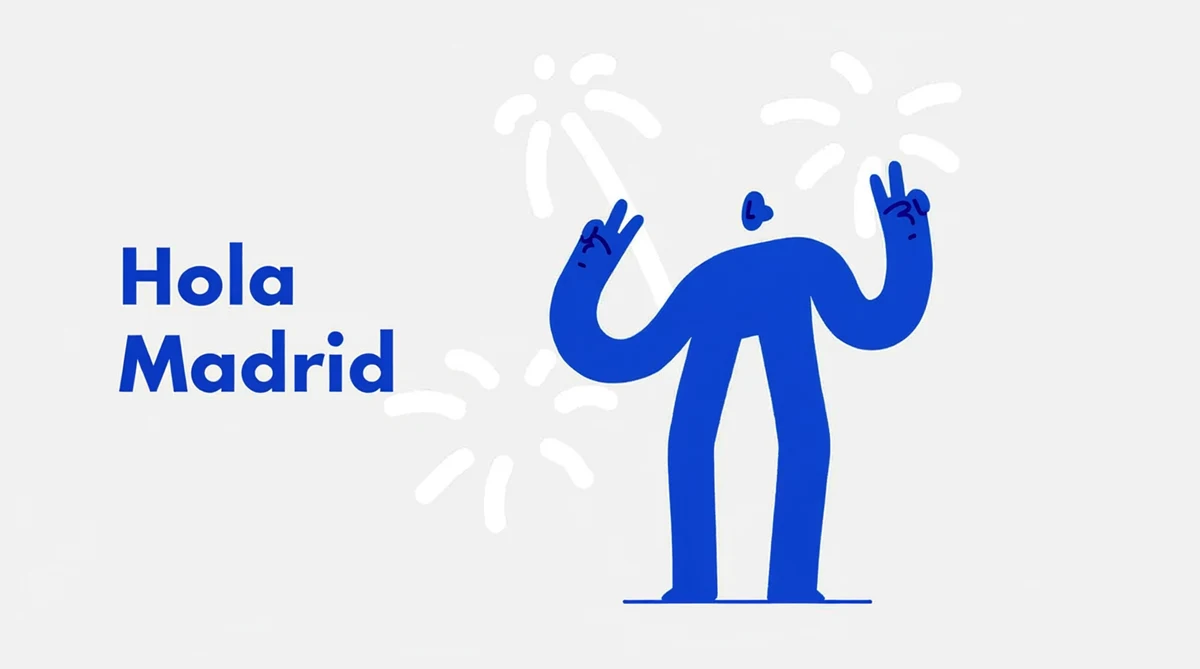
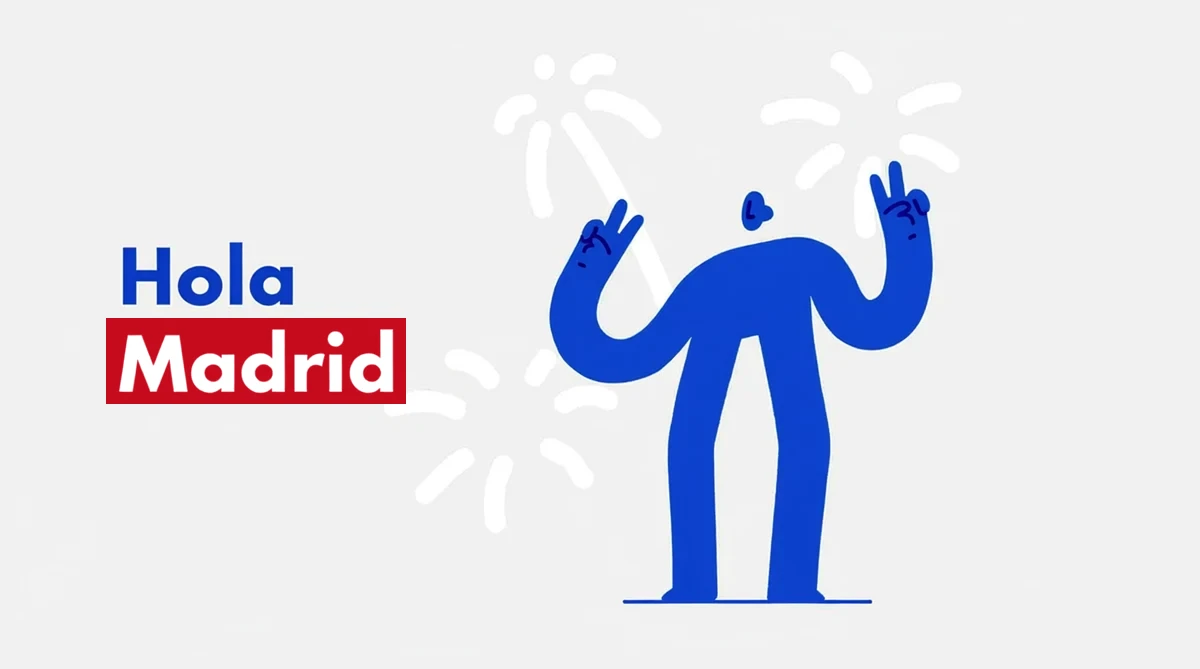
Madrid: «Madrid» resaltado en rojo en la ilustración «Hola Madrid»
Franja en el rojo carmesí de la bandera de la Comunidad (#C60B1E) con la palabra
en blanco, sin estrellas. Texto alternativo actualizado en ES y EN.

Changed region(s): [[0.0617, 0.4783, 0.3392, 0.6278]]

diff --git a/src/data/delegaciones.ts b/src/data/delegaciones.ts
@@ -199,7 +199,7 @@ export const delegacionMadridContent = {
     titleAccent: 'en Madrid',
     intro:
       'Madrid es la sede de iaS: aquí trabaja el equipo, se coordinan los programas y se acompaña a cada nueva delegación.',
-    imageAlt: 'Ilustración: una figura azul celebra haciendo el signo de la victoria junto al texto «Hola Madrid», un guiño al «Hello, world» de la programación.',
+    imageAlt: 'Ilustración: una figura azul celebra haciendo el signo de la victoria junto al texto «Hola Madrid», con «Madrid» resaltado en rojo, un guiño al «Hello, world» de la programación.',
     discordCtaLabel: 'Únete al Discord de iaS',
     formCtaLabel: 'Regístrate y contacta',
     newsletterCtaLabel: 'Boletín de iaS',
@@ -301,7 +301,7 @@ export const delegacionMadridContent = {
     titleAccent: 'in Madrid',
     intro:
       'Madrid is the headquarters of iaS: this is where the team works, the programs are coordinated and every new chapter gets its support.',
-    imageAlt: 'Illustration: a blue figure celebrates with victory signs next to the words “Hola Madrid”, a nod to programming’s “Hello, world”.',
+    imageAlt: 'Illustration: a blue figure celebrates with victory signs next to the words “Hola Madrid”, with “Madrid” highlighted in red, a nod to programming’s “Hello, world”.',
     discordCtaLabel: 'Join the iaS Discord',
     formCtaLabel: 'Sign up and get in touch',
     newsletterCtaLabel: 'iaS newsletter',
